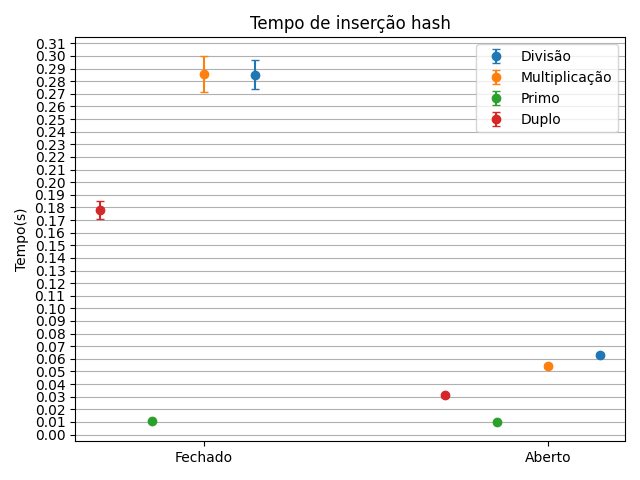
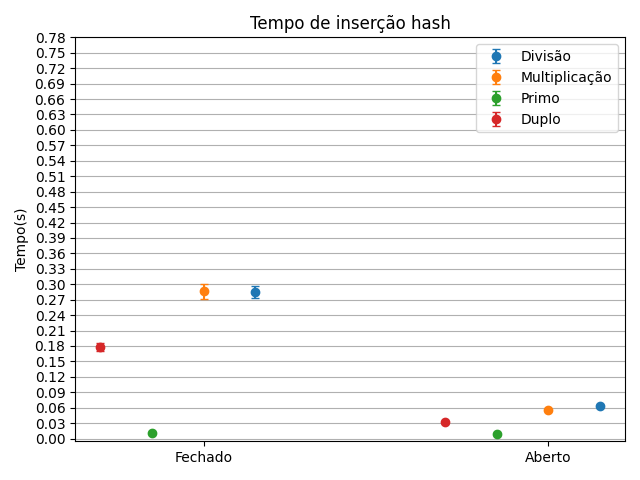
fixed output scale

Changed region(s): [[0.0312, 0.0625, 0.9688, 0.9375]]

diff --git a/scripts/hashSearchCalculator.py b/scripts/hashSearchCalculator.py
@@ -147,7 +147,7 @@ ax1.grid(which='major', axis='y')
 ax2.set_ylabel('Tempo(s)')
 ax2.set_title('Tempo de inserção hash')
 ax2.set_xticks(x);ax2.set_xticklabels(df_types, minor=False)
-ax2.set_yticks(np.arange(0.00, 0.32, 0.01))
+ax2.set_yticks(np.arange(0.00, 0.78, 0.03))
 ax2.legend()
 fig2.tight_layout()
 ax2.grid(which='major', axis='y')
